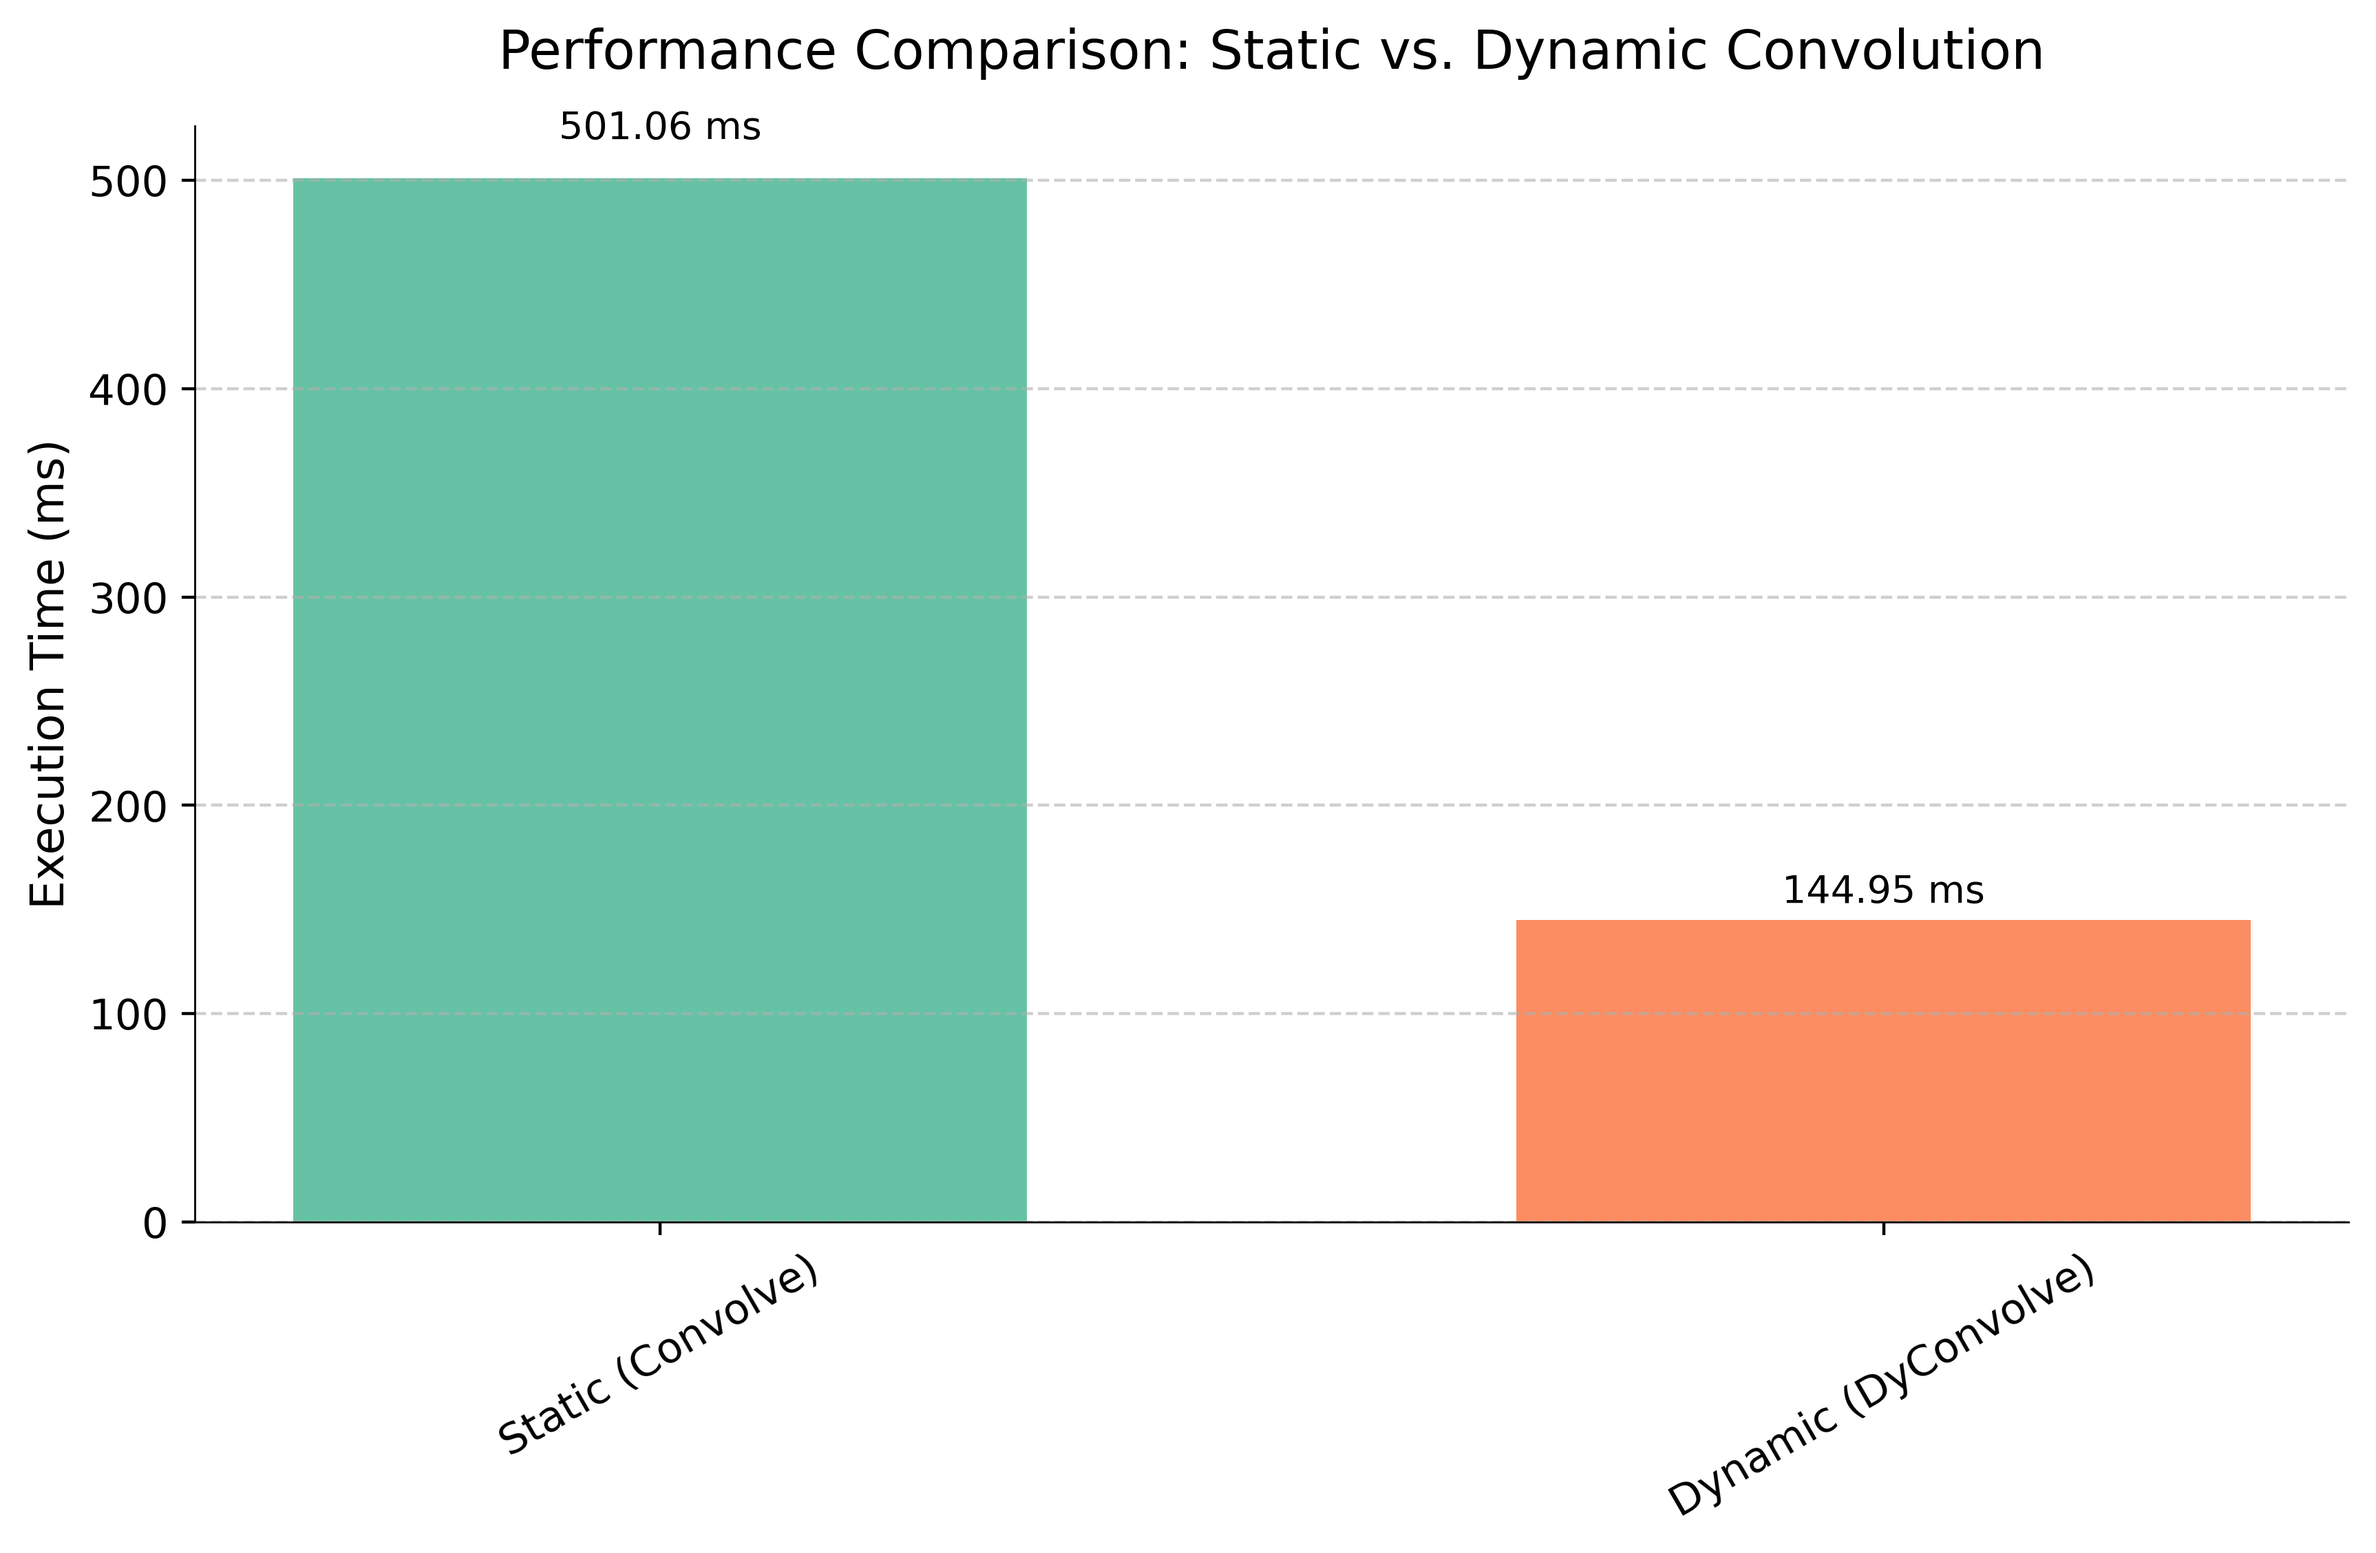
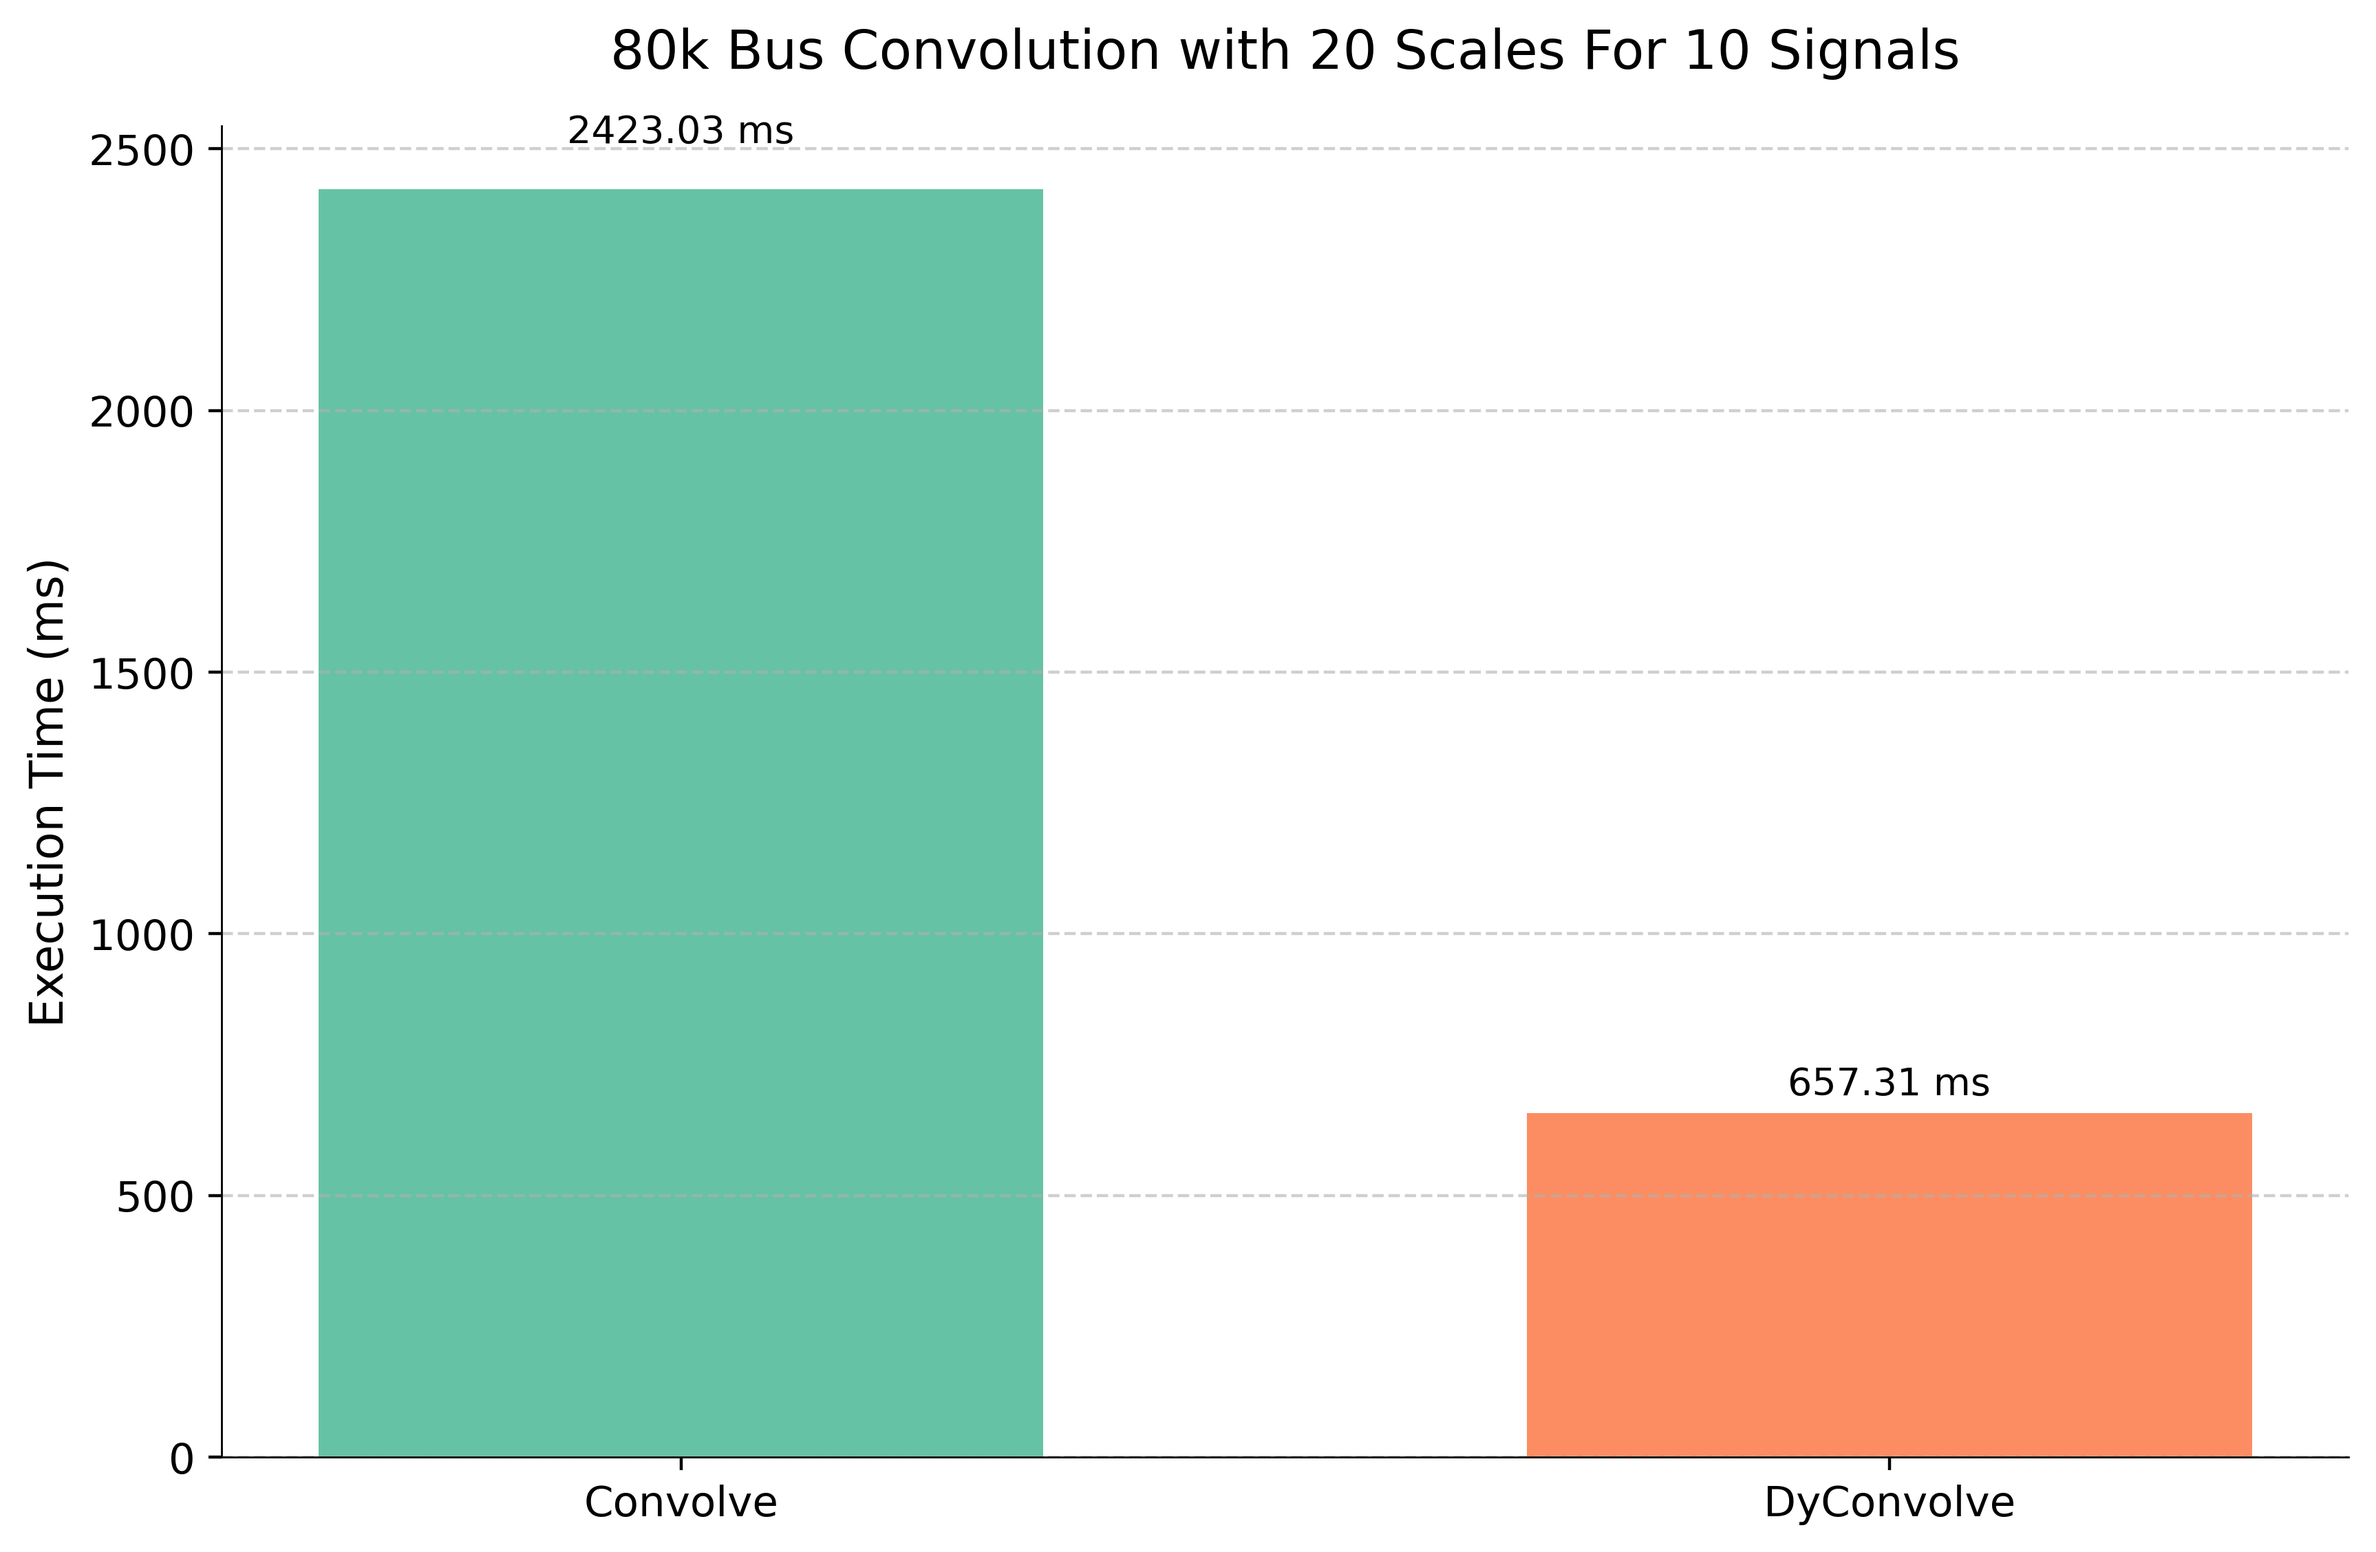
Minor Updates to readthedocs

diff --git a/examples/demo_dynamic_stream.py b/examples/demo_dynamic_stream.py
@@ -1,12 +1,20 @@
 import os
 import matplotlib.pyplot as plt
-
-# DOC_START_CODE_EXCLUDE_IMPORTS
 import numpy as np
-from sgwt.dynamic import DyConvolve
-from sgwt import DELAY_USA as L
+
+# Set font to Times New Roman for a professional look
+plt.rcParams['font.family'] = 'serif'
+plt.rcParams['font.serif'] = ['Times New Roman'] + plt.rcParams['font.serif']
+plt.rcParams['font.size'] = 12 # Increase base font size
+plt.rcParams['axes.labelsize'] = 12
+plt.rcParams['axes.titlesize'] = 14
+plt.rcParams['xtick.labelsize'] = 10
+plt.rcParams['ytick.labelsize'] = 10
+plt.rcParams['figure.titlesize'] = 16 # For suptitle if used
 
 
+
+# --- Helper Function for Stream Simulation ---
 def get_incoming_data(t):
     """Mock signal generator and network event simulator."""
     n_nodes = L.shape[0]
@@ -30,7 +38,10 @@ def get_incoming_data(t):
     return f_t, event
 
 # DOC_START_CODE_EXCLUDE_IMPORTS
-# 1. Configuration
+from sgwt.dynamic import DyConvolve
+from sgwt import DELAY_USA as L
+
+# --- Configuration ---
 scales = np.geomspace(0.1, 10.0, 10)
 poles  = 1.0 / scales
 N_SAMPLES = 1000
@@ -42,6 +53,7 @@ print(f"Stream: {N_SAMPLES} samples\n")
 # Data to plot
 event_times = []
 avg_signal_magnitudes = []
+# --- Execution Context ---
 # 2. Execution Context
 with DyConvolve(L, poles) as conv:
     for t in range(N_SAMPLES):
@@ -68,9 +80,11 @@ ax.plot(range(N_SAMPLES), avg_signal_magnitudes, label='Average Signal Magnitude
 for et in event_times:
     ax.axvline(et, color='red', linestyle='--', alpha=0.6, label='Topology Event' if et == event_times[0] else "")
 
+ax.set_xlim(0, N_SAMPLES)
+
 ax.set_xlabel('Time Step')
 ax.set_ylabel('Average Signal Magnitude')
-ax.set_title('Dynamic Stream Processing: Signal Magnitude and Topology Events')
+ax.set_title('Dynamic GSP: Online Signal and Topology Events')
 ax.legend()
 ax.grid(True, linestyle=':', alpha=0.7)
 

diff --git a/examples/demo_dynamic_time.py b/examples/demo_dynamic_time.py
@@ -17,7 +17,7 @@ poles = 1/scales
 with Convolve(L) as conv:
 
     start = time.time()
-    for i in range(2):
+    for i in range(10):
         Y = conv.bandpass(X, scales)
     T1 = time.time() - start
 
@@ -25,7 +25,7 @@ with Convolve(L) as conv:
 with DyConvolve(L, poles) as conv:
 
     start = time.time()
-    for i in range(2):
+    for i in range(10):
         Y = conv.bandpass(X)
     T2 = time.time() - start
 
@@ -36,14 +36,14 @@ with DyConvolve(L, poles) as conv:
 
 # Create a bar chart to visualize the performance comparison
 fig, ax = plt.subplots(figsize=(9, 6)) # Increased figure size for better readability
-labels = ['Static (Convolve)', 'Dynamic (DyConvolve)']
+labels = ['Convolve', 'DyConvolve']
 times_ms = [T1 * 1000, T2 * 1000]
 colors = ['#66c2a5', '#fc8d62'] # A more subtle color palette
 
 bars = ax.bar(labels, times_ms, color=colors, width=0.6) # Added width for better spacing
 ax.set_ylabel('Execution Time (ms)', fontsize=12)
-ax.set_title('Performance Comparison: Static vs. Dynamic Convolution', fontsize=14, pad=15) # Added padding to title
-ax.tick_params(axis='x', rotation=30, labelsize=11) # Increased rotation and labelsize
+ax.set_title('80k Bus Convolution with 20 Scales For 10 Signals', fontsize=14, pad=15) # Added padding to title
+ax.tick_params(axis='x', labelsize=11) # Increased rotation and labelsize
 ax.tick_params(axis='y', labelsize=11)
 ax.grid(axis='y', linestyle='--', alpha=0.6) # Slightly reduced alpha for grid
 

diff --git a/examples/demo_inpainting.py b/examples/demo_inpainting.py
@@ -61,6 +61,7 @@ with DyConvolve(L, poles=[1/SMOOTHING_SCALE]) as conv:
             print(f"  Iteration {i+1}/{N_ITERATIONS}")
 
 # DOC_END_CODE_EXCLUDE_PLOT
+
 # 4. Visualize Results
 fig, (ax1, ax2, ax3) = plt.subplots(3, 1, figsize=(5, 8), sharex=True)
 fig.suptitle(f'Graph Signal Inpainting from {SAMPLE_FRACTION:.1%} of Data', fontsize=14, fontweight='bold')

diff --git a/examples/demo_filters_3.py b/examples/demo_filters_3.py
@@ -15,6 +15,7 @@ s = [3e0]
 # Memory Efficient Context
 with Convolve(L) as conv:
 
+    # Third Order Band-Pass
     BP = conv.bandpass(X, s)[0]
     BP = conv.bandpass(BP, s)[0]
     BP = conv.bandpass(BP, s)[0]

diff --git a/examples/demo_filters_1.py b/examples/demo_filters_1.py
@@ -7,8 +7,7 @@ from sgwt import Convolve, impulse
 from sgwt import DELAY_TEXAS as L
 from sgwt import COORD_TEXAS as C
 
-
-# Impulse
+# Impulses
 X  = impulse(L, n=1200)
 X += impulse(L, n=600)
 

diff --git a/docs/usage/quickstart.rst b/docs/usage/quickstart.rst
@@ -1,9 +1,6 @@
 Quickstart
 ==========
 
-Static Graph Filtering
-----------------------
-
 Here is a simple example of performing a band-pass filter on a graph signal using the Texas power grid topology.
 
 .. code-block:: python
